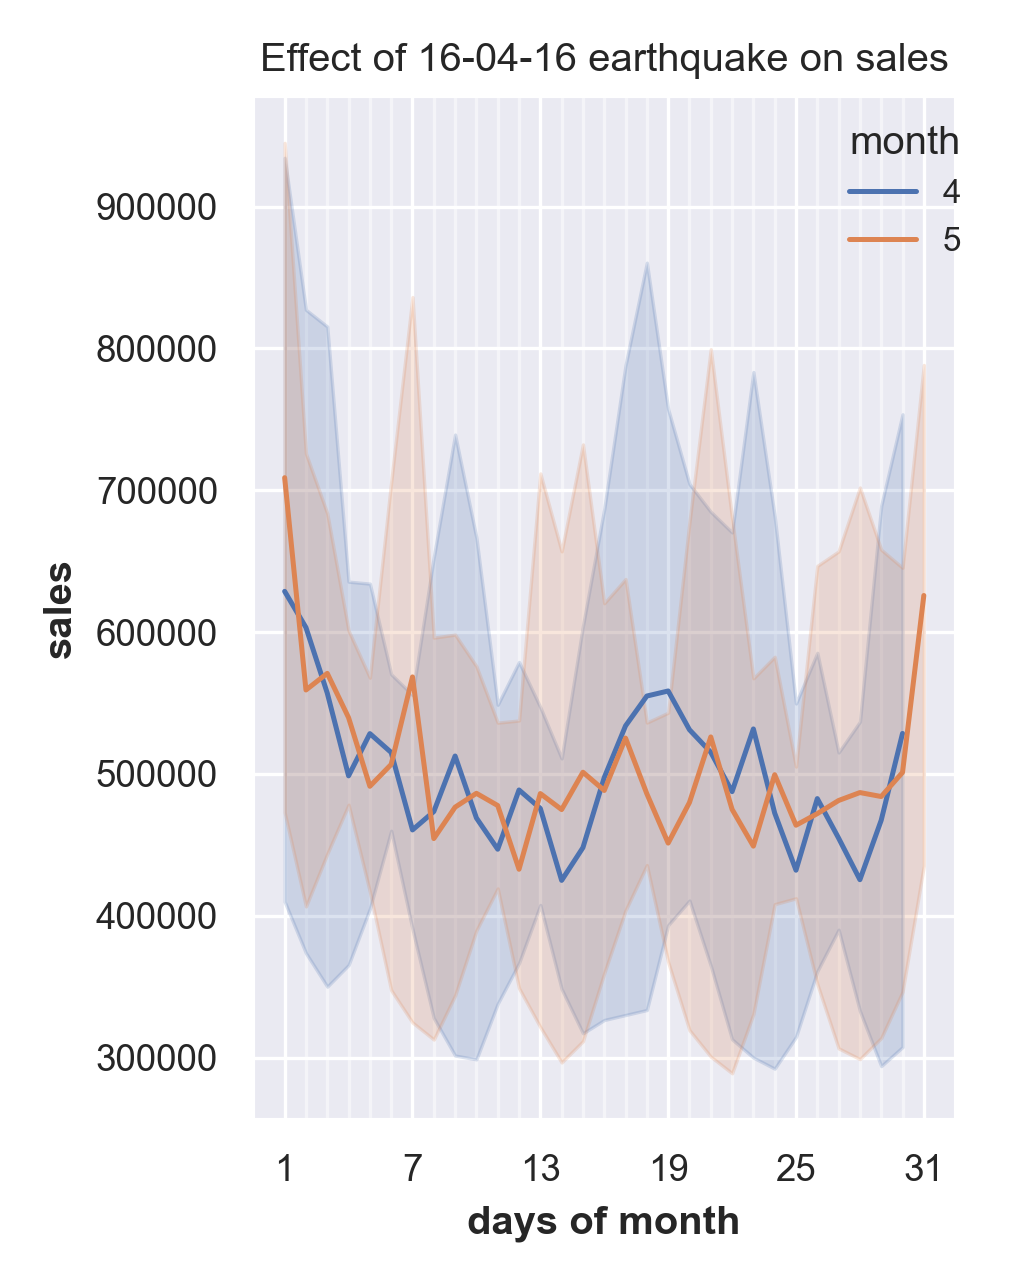
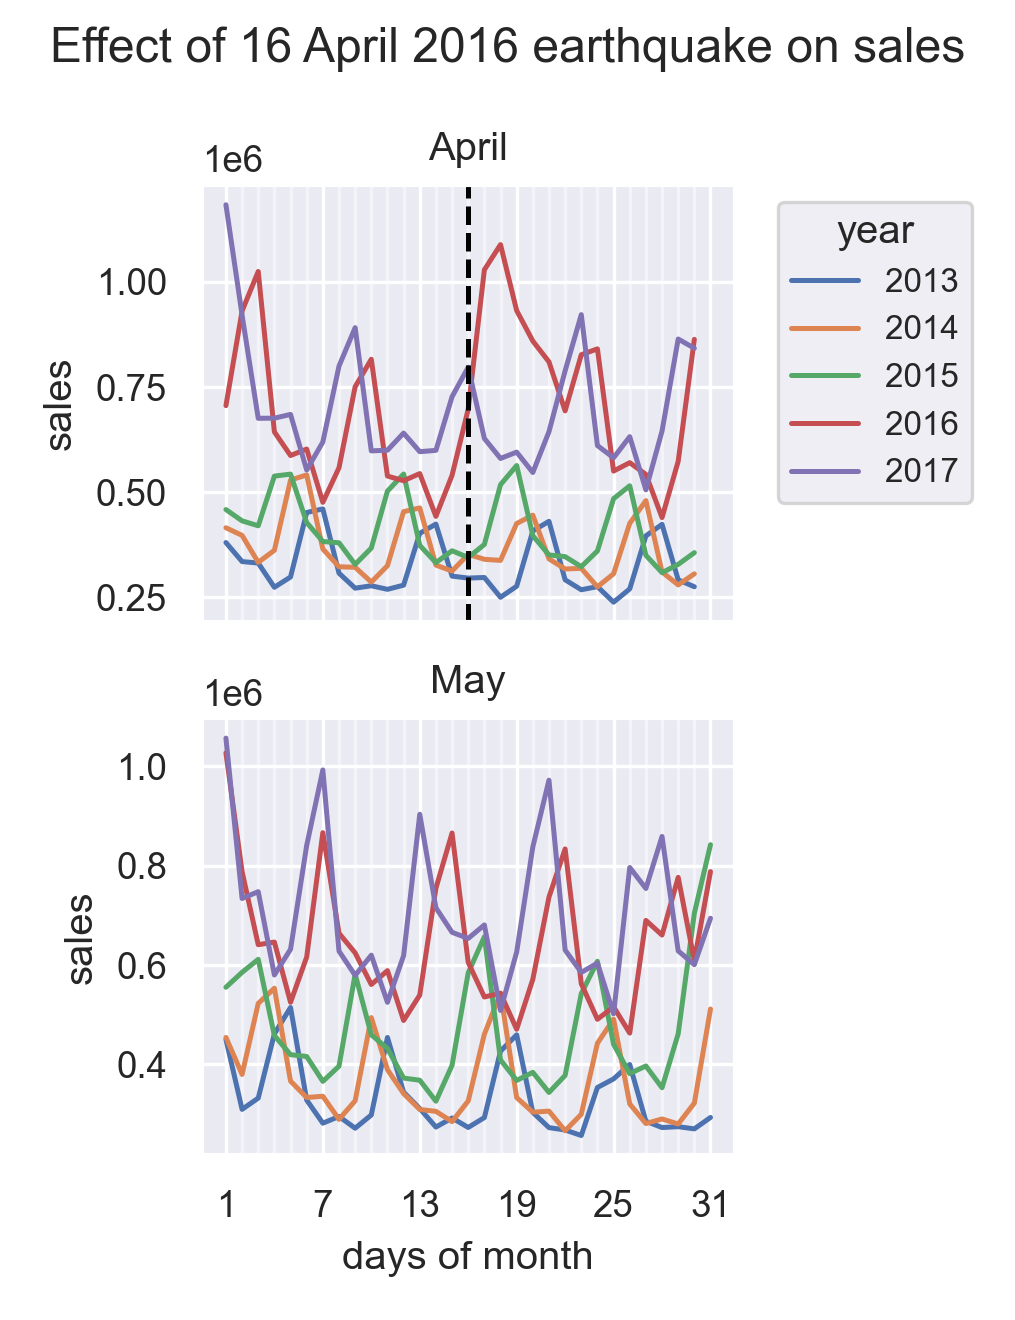
Test linear decomp model on 2017

diff --git a/ModelTime.py b/ModelTime.py
@@ -1,0 +1,173 @@
+# TIME SERIES REGRESSION PART 1 - KAGGLE STORE SALES COMPETITION
+
+
+# TIME EFFECTS DECOMPOSITION MODEL SCRIPT
+
+import pandas as pd 
+import numpy as np
+import matplotlib.pyplot as plt
+import seaborn as sns
+
+
+# Set printing options
+np.set_printoptions(suppress=True, precision=4)
+pd.options.display.float_format = '{:.4f}'.format
+
+
+# Set plotting options
+plt.rcParams['figure.dpi'] = 300
+plt.rcParams['savefig.dpi'] = 300
+plt.rcParams["figure.autolayout"] = True
+sns.set_theme(context="paper")
+
+
+# Load data
+df_train = pd.read_csv(
+  "./ModifiedData/Final/train_modified_timefeats.csv", encoding="utf-8")
+
+
+# Set datetime index
+df_train = df_train.set_index(pd.to_datetime(df_train.date))
+df_train = df_train.drop("date", axis=1)
+
+
+# Aggregate total sales per day, across all stores and categories
+total_sales = df_train.groupby("date").sales.sum()
+
+
+# Create darts time series from total sales series
+from darts import TimeSeries
+ts = TimeSeries.from_series(total_sales, freq="D")
+
+
+# Aggregate time features by mean
+time_feats = df_train.drop(columns=['id', 'store_nbr', 'family', 'sales', 'onpromotion', 'transactions',
+       'oil', 'city', 'state', 'store_type', 'store_cluster'], axis=1).groupby("date").mean(numeric_only=True)
+
+
+# Add piecewise linear trend dummies
+time_feats["trend"] = range(1, 1685)
+time_feats.loc[time_feats.index=="2015-01-01"] # Knot at period 729
+time_feats["trend_knot"] = 0
+time_feats.iloc[728:,-1] = range(0, 956)
+time_feats.loc[time_feats["trend"]>=729][["trend", "trend_knot"]] # Check start of knot
+
+
+# Add Fourier features for monthly seasonality (weekly handled by day of week dummies)
+from statsmodels.tsa.deterministic import DeterministicProcess
+dp = DeterministicProcess(
+  index = time_feats.index,
+  constant = False,
+  order = 0,
+  seasonal = False,
+  period = 28,
+  fourier = 5 
+)
+time_feats = time_feats.merge(dp.in_sample(), how="left", on="date")
+
+
+# Make Darts time series with time feats
+ts_timefeats = TimeSeries.from_dataframe(
+  time_feats, freq="D", fill_missing_dates=False)
+
+
+# Define functions to perform log transformation and reverse it
+def trafo_log(x):
+  return x.map(lambda x: np.log(x+1))
+
+def trafo_exp(x):
+  return x.map(lambda x: np.exp(x)-1)
+
+
+# Train-test split
+y_train, y_val = trafo_log(ts[:-227]), trafo_log(ts[-227:])
+x_train, x_val = ts_timefeats[:-227], ts_timefeats[-227:]
+
+
+# Specify models: baseline, FFT and linear
+from darts.models.forecasting.baselines import NaiveDrift, NaiveSeasonal
+from darts.models.forecasting.fft import FFT
+from darts.models.forecasting.linear_regression_model import LinearRegressionModel
+
+model_drift = NaiveDrift()
+model_seasonal = NaiveSeasonal()
+
+model_fft = FFT(
+  nr_freqs_to_keep = 8,
+  trend = "poly",
+  trend_poly_degree = 1
+)
+
+model_linear = LinearRegressionModel(
+  lags_future_covariates = [0],
+  output_chunk_length = 15)
+
+
+# Fit models on train data (pre-2017), predict validation data (2017)
+model_drift.fit(y_train)
+pred_drift = model_drift.predict(n = 227)
+
+model_seasonal.fit(y_train)
+pred_seasonal = model_seasonal.predict(n = 227)
+
+model_fft.fit(y_train)
+pred_fft = model_fft.predict(n = 227)
+
+model_linear.fit(y_train, future_covariates = x_train)
+pred_linear = model_linear.predict(n = 227, future_covariates = x_val)
+
+
+# Define model scoring function
+from darts.metrics import mape, rmse
+def perf_scores(val, pred, model="drift"):
+  
+  scores_dict = {
+    "RMSE": rmse(trafo_exp(val), trafo_exp(pred)), 
+    "RMSLE": rmse(val, pred), 
+    "MAPE": mape(trafo_exp(val), trafo_exp(pred))
+      }
+      
+  print("Model: " + model)
+  
+  for key in scores_dict:
+    print(
+      key + ": " + 
+      str(round(scores_dict[key], 4))
+       )
+  print("--------")  
+
+
+# Score models' performance
+perf_scores(y_val, pred_drift, model="Naive drift")
+perf_scores(y_val, pred_seasonal, model="Naive seasonal")
+perf_scores(y_val, pred_fft, model="FFT")
+perf_scores(y_val, pred_linear, model="Linear")
+
+
+# FIG7: Plot models' predictions against actual values
+fig7, axes7 = plt.subplots(2, sharex=True, sharey=True)
+fig7.suptitle("Actual vs. predicted sales,\n time decomposition models")
+
+# FFT
+trafo_exp(y_val).plot(ax = axes7[0], label="Actual")
+trafo_exp(pred_fft).plot(ax = axes7[0], label="Predicted")
+axes7[0].set_title("FFT")
+
+# Linear regression
+trafo_exp(y_val).plot(ax = axes7[1], label="Actual")
+trafo_exp(pred_linear).plot(ax = axes7[1], label="Predicted")
+axes7[1].set_title("Linear regression")
+
+# Show FIG7
+plt.show()
+fig7.savefig("./Plots/TimeModel/2017test.png", dpi=300)
+plt.close("all")
+
+
+# Backtest linear regression
+
+
+# Retrieve residuals for 2014-2017 and diagnose them
+
+
+# Save decomposed sales for lags & covariates EDA

diff --git a/FeatEngTime.py b/FeatEngTime.py
@@ -37,8 +37,7 @@ df.loc[(df["ny_eve31"] == 1) | (df["ny_eve30"] == 1), ["local_holiday", "regiona
 
 df["xmas_before"] = 0
 df.loc[
-  (df.index.day.isin(range(13,24))) & (df.index.month == 12), "xmas_before"] = 
-  df.loc[
+  (df.index.day.isin(range(13,24))) & (df.index.month == 12), "xmas_before"] = df.loc[
   (df.index.day.isin(range(13,24))) & (df.index.month == 12)].index.day - 12
 
 df["xmas_after"] = 0
@@ -50,12 +49,49 @@ df.loc[(df["xmas_before"] != 0) | (df["xmas_after"] != 0), ["local_holiday", "re
 
 
 # Earthquake feature
+# 18 > 17 > 19 > 20 > 21 > 22
 df["quake_after"] = 0
-df.loc[
-  (df.index.day.isin(range(16,31)) & (df.index.month == 4) & (df.index.year == 2016)) |
-  (df.index.day.isin(range(1,16)) & (df.index.month == 5) & (df.index.year == 2016)), "quake_after"] =
-  df.loc[
-  (df.index.day.isin(range(16,31)) & (df.index.month == 4) & (df.index.year == 2016)) |
-  (df.index.day.isin(range(1,16)) & (df.index.month == 5) & (df.index.year == 2016))].index.day
+df.loc[df.index == "2016-04-18", "quake_after"] = 6
+df.loc[df.index == "2016-04-17", "quake_after"] = 5
+df.loc[df.index == "2016-04-19", "quake_after"] = 4
+df.loc[df.index == "2016-04-20", "quake_after"] = 3
+df.loc[df.index == "2016-04-21", "quake_after"] = 2
+df.loc[df.index == "2016-04-22", "quake_after"] = 1
 
 
+# Split events, delete events column
+df["dia_madre"] = ((df["event"] == 1) & (df.index.month == 5) & (df.index.day.isin([8,10,11,12,14]))).astype(int)
+df["futbol"] = ((df["event"] == 1) & (df.index.isin(pd.date_range(start = "2014-06-12", end = "2014-07-13")))).astype(int)
+df["black_friday"] = ((df["event"] == 1) & (df.index.isin(["2014-11-28", "2015-11-27", "2016-11-25"]))).astype(int)
+df["cyber_monday"] = ((df["event"] == 1) & (df.index.isin(["2014-12-01", "2015-11-30", "2016-11-28"]))).astype(int)
+df = df.drop("event", axis=1)
+
+
+# Days of week dummies (monday intercept)
+df["tuesday"] = (df.index.dayofweek == 1).astype(int)
+df["wednesday"] = (df.index.dayofweek == 2).astype(int)
+df["thursday"] = (df.index.dayofweek == 3).astype(int)
+df["friday"] = (df.index.dayofweek == 4).astype(int)
+df["saturday"] = (df.index.dayofweek == 5).astype(int)
+df["sunday"] = (df.index.dayofweek == 6).astype(int)
+
+
+# Holiday-event leads
+df["local_lead1"] = df["local_holiday"].shift(-1).fillna(0)
+df["regional_lead1"] = df["regional_holiday"].shift(-1).fillna(0)
+df["national_lead1"] = df["national_holiday"].shift(-1).fillna(0)
+df["diamadre_lead1"] = df["dia_madre"].shift(-1).fillna(0)
+pd.isnull(df).sum()
+
+
+# Split train-test, reset indexes, write to csv
+df_train = df.iloc[range(0, len(df_train)), :]
+df_test = df.iloc[range(len(df_train), len(df)), :]
+
+df_train = df_train.reset_index()
+df_test = df_test.reset_index()
+
+df_train.to_csv(
+  "./ModifiedData/Final/train_modified_timefeats.csv", index=False, encoding="utf-8")
+df_test.to_csv(
+  "./ModifiedData/Final/test_modified_timefeats.csv", index=False, encoding="utf-8")

diff --git a/EDATime.py b/EDATime.py
@@ -369,19 +369,43 @@ plt.close("all")
 # FIG6: Zoom in on earthquake: 16 April 2016
 april_sales = total_sales.loc[total_sales.index.month == 4]
 may_sales = total_sales.loc[total_sales.index.month == 5]
+
+fig6, axes6 = plt.subplots(2, sharex=True)
+fig6.suptitle("Effect of 16 April 2016 earthquake on sales")
+
+# April
 sns.lineplot(
+  ax = axes6[0],
   x = april_sales.index.day,
   y = april_sales,
   hue = april_sales.index.year.astype(str),
   data = april_sales
 )
-plt.title("Effect of 16-04-16 earthquake on April sales")
-plt.legend(title = "year", bbox_to_anchor=(1.05, 1.0), fontsize="small", loc='best')
-plt.xlabel("days of month")
-plt.xticks(np.arange(1, 32, 6))
-plt.xticks(np.arange(1, 32, 1), minor=True)
-plt.grid(which='minor', alpha=0.5)
-plt.grid(which='major', alpha=1)
+axes6[0].set_title("April")
+axes6[0].legend(title = "year", bbox_to_anchor=(1.05, 1.0), fontsize="small", loc='best')
+axes6[0].set_xlabel("days of month")
+axes6[0].set_xticks(np.arange(1, 32, 6))
+axes6[0].set_xticks(np.arange(1, 32, 1), minor=True)
+axes6[0].grid(which='minor', alpha=0.5)
+axes6[0].grid(which='major', alpha=1)
+axes6[0].axvline(x = 16, color = "black", linestyle = "dashed")
+
+# May
+sns.lineplot(
+  ax = axes6[1],
+  x = may_sales.index.day,
+  y = may_sales,
+  hue = may_sales.index.year.astype(str),
+  data = may_sales, legend=False
+)
+axes6[1].set_title("May")
+axes6[1].set_xlabel("days of month")
+axes6[1].set_xticks(np.arange(1, 32, 6))
+axes6[1].set_xticks(np.arange(1, 32, 1), minor=True)
+axes6[1].grid(which='minor', alpha=0.5)
+axes6[1].grid(which='major', alpha=1)
+
+# Show FIG6
 plt.show()
-plt.savefig("./Plots/TimeEDA/QuakeApril.png", dpi=300)
+plt.savefig("./Plots/TimeEDA/Quake.png", dpi=300)
 plt.close("all")

diff --git a/JunkCode.py b/JunkCode.py
@@ -197,3 +197,18 @@ df.loc[(df.index.day == 24) & (df.index.month == 12), "xmas_before"] = 4
 df.loc[(df.index.day == 25) & (df.index.month == 12), "xmas_before"] = 3
 df.loc[(df.index.day == 26) & (df.index.month == 12), "xmas_before"] = 2
 df.loc[(df.index.day == 27) & (df.index.month == 12), "xmas_before"] = 1
+
+
+from darts.models.forecasting.exponential_smoothing import ExponentialSmoothing
+from darts.utils.utils import ModelMode
+from darts.utils.utils import SeasonalityMode
+
+
+model_exp = ExponentialSmoothing(
+  trend = ModelMode.ADDITIVE,
+  seasonal = SeasonalityMode.ADDITIVE,
+  seasonal_periods = 7)
+  
+
+model_exp.fit(y_train)
+pred_exp = model_exp.predict(n = 227)
